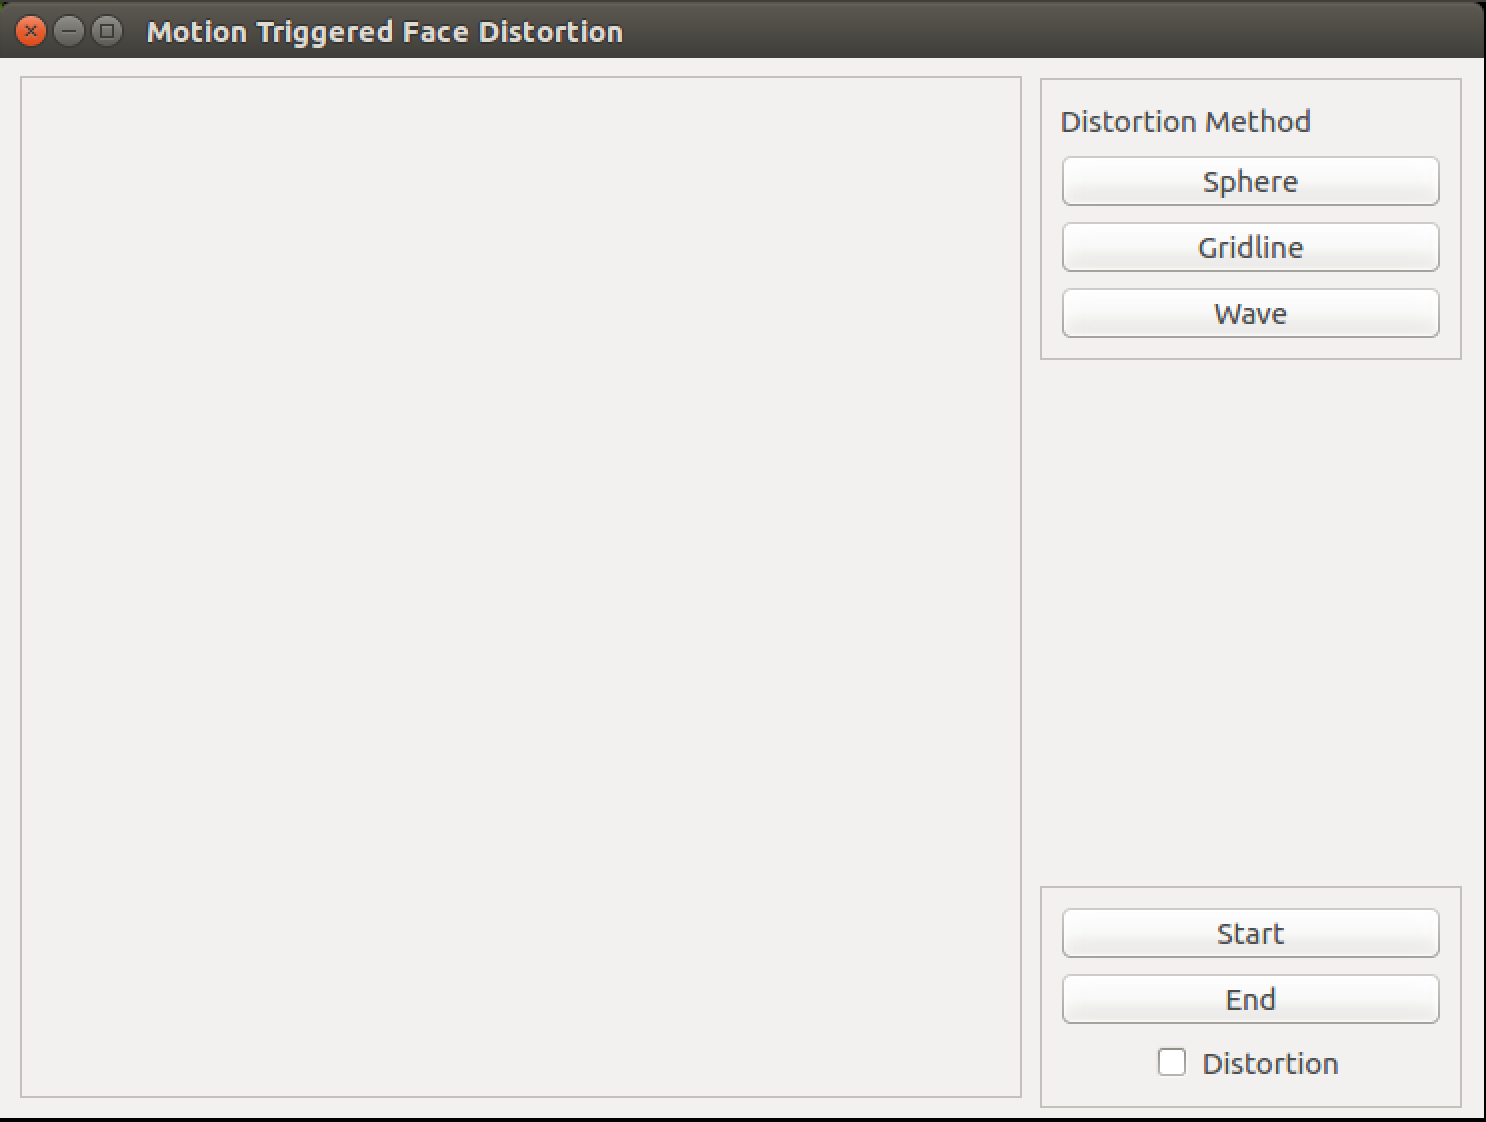
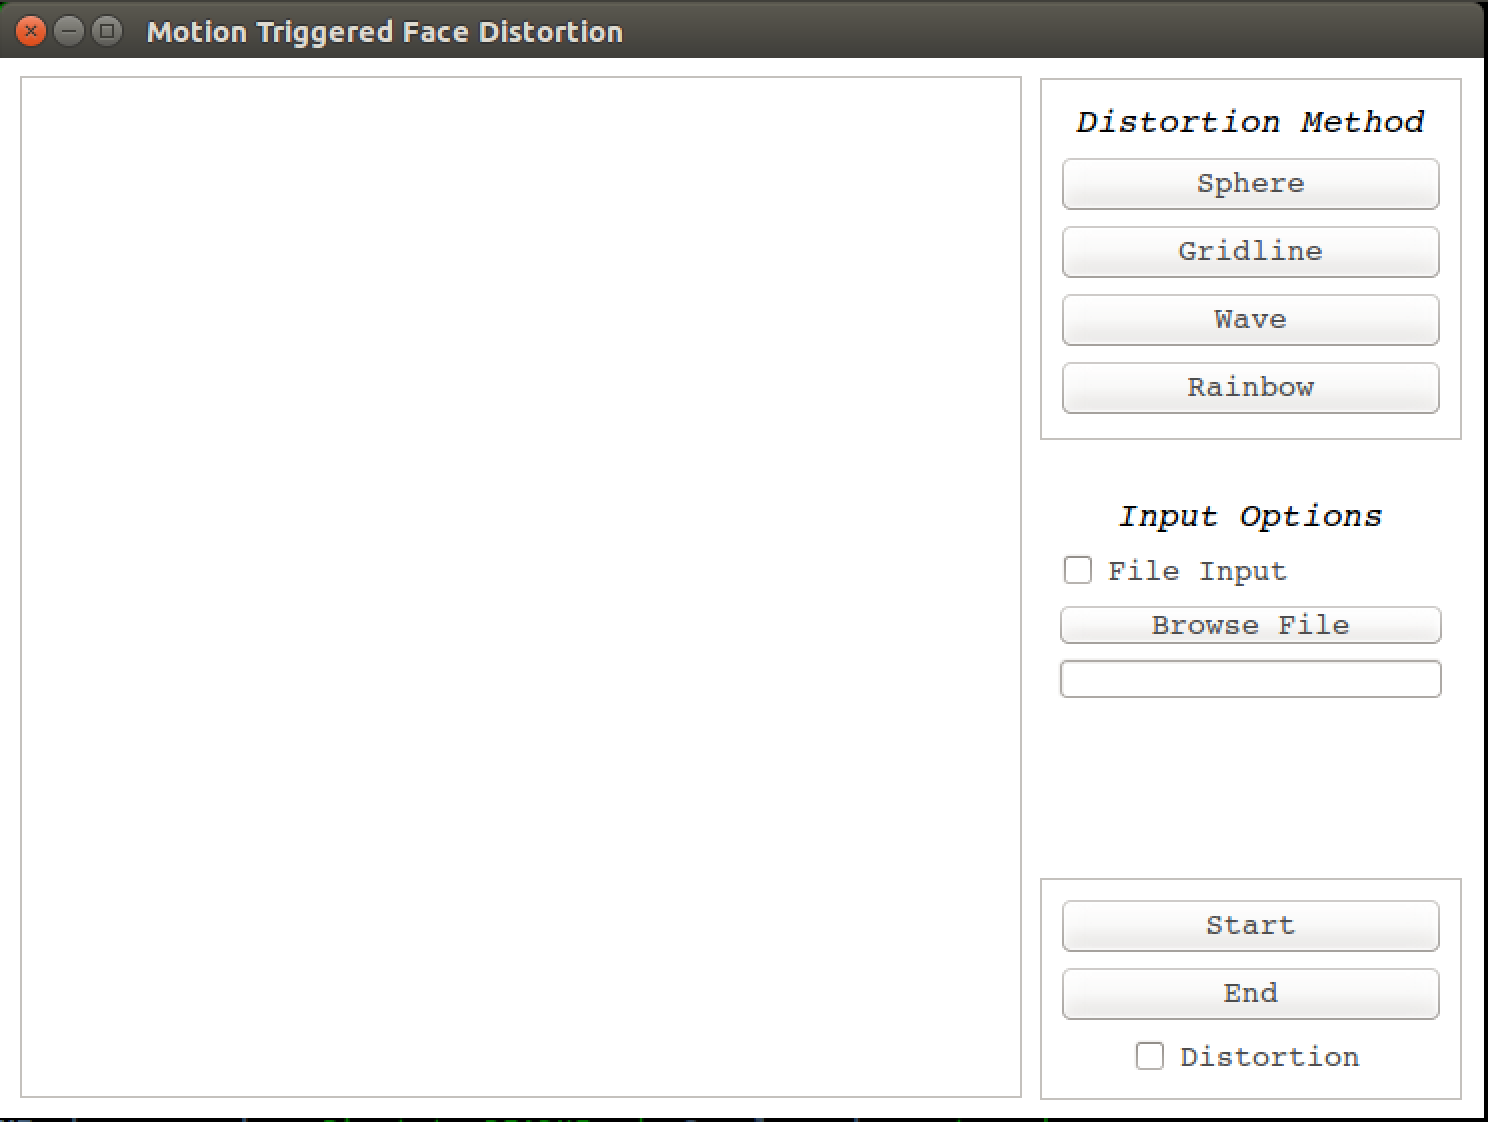
change demo

diff --git a/packages/demo.html b/packages/demo.html
@@ -31,29 +31,12 @@
                 
             </div>
 
-            <div id='distortion' style='padding-top:80px'>
-                <h2 class='head-tag'>GUI Interface</h2>
-                <div class='gui' style='height:100%; width:100%;background-color: #F5F5F1'> 
-                    <div style='padding-top:1%;'> 
-                        <!-- left -->
-                        <div style='width:49%; height=100%; float: left;text-align:center'>
-                            <img src='../images/init.png' alt='distortion_sample' style='width:100%; height=100%'>
-                            <!--    <span style='width:100%; height:100%;'>Initial GUI</span> -->
-                        </div>
-                        <!-- right -->
-                        <div style='width:49%; height=100%; float: right; text-align:center'>
-                            <img src='../images/distorting.png' alt='distortion_sample' style='width:100%; height=100%'>
-                            <!--    <span style='width:100%; height:100%'>Initial GUI</span> -->
-                        </div>
-                    </div>
-                </div>
-            </div>
 
             <div id='distortion' style='padding-top:80px'>
                 <h2 class='head-tag'>Distortion Method</h2>
 
-                <div class='distortion' style='height:100%; width:100%; background-color: #F5F5F1; align:center'> 
-                    <div style='padding-top:5%'>
+                <div class='distortion' style='height:100%; width:100%; background-color: #F5F5F1; display: flex; align-items: center'> 
+                    <div style='padding-top: 5px;display: inline-flex'>
                         <div style='width:25%; height=100%; float: left; text-align:center'>
                             <img src='../images/sphere.png' alt='distortion_sample' style='width:100%; height=100%'>
                             <span style='width:100%; height:100%; font-size: 25px; font-family: "Comic Sans MS", cursive, sans-serif; font-style:italic'>
@@ -76,9 +59,40 @@
                         </div>
 
                         <div style='width:25%; height=100%; float: left; text-align:center'>
-                            <img src='../images/wave.png' alt='distortion_sample' style='width:100%; height=100%'>
+                            <img src='../images/rainbow.png' alt='distortion_sample' style='width:100%; height=100%'>
                             <span style='width:100%; height:100%; font-size: 25px; font-family: "Comic Sans MS", cursive, sans-serif; font-style:italic'>
                                 Rainbow
+                            </span>
+                        </div>
+                    </div>
+                </div>
+            </div>
+
+            <div style='padding-top:40px; float:left'>
+                <h2 class='head-tag'>GUI Interface</h2>
+                <div class='gui' style='height:100%; width:100%;background-color: #F5F5F1; display:flex; align=items:center'>
+                    <div style='padding-top: 5px;display: inline-flex'>
+                        <!-- left -->
+                        <div style='width:49%; height=100%; float: left;text-align:center'>
+                            <img src='../images/init.png' alt='distortion_sample' style='width:100%; height=100%'>
+                            <span style='width:100%; height:100%; font-size: 25px; font-family: "Comic Sans MS", cursive, sans-serif; font-style:italic'>
+                                Initial GUI
+                            </span>
+                            <img src='../images/input.png' alt='distortion_sample' style='width:100%; height=100%'>
+                            <span style='width:100%; height:100%; font-size: 25px; font-family: "Comic Sans MS", cursive, sans-serif; font-style:italic'>
+                                File Input Dialog
+                            </span>
+                        </div>
+                        <!-- right -->
+                        <div style='padding-left: 5px;width:49%; height=100%; float: right; text-align:center'>
+                            <img src='../images/distorting.png' alt='distortion_sample' style='width:100%; height=100%'>
+                            <span style='width:100%; height:100%; font-size: 25px; font-family: "Comic Sans MS", cursive, sans-serif; font-style:italic'>
+								Living Video Distortion 
+                            </span>
+
+                            <img src='../images/input_video_distortion.png' alt='distortion_sample' style='width:100%; height=100%'>
+                            <span style='width:100%; height:100%; font-size: 25px; font-family: "Comic Sans MS", cursive, sans-serif; font-style:italic'>
+								Input Video Distoriton
                             </span>
                         </div>
                     </div>
